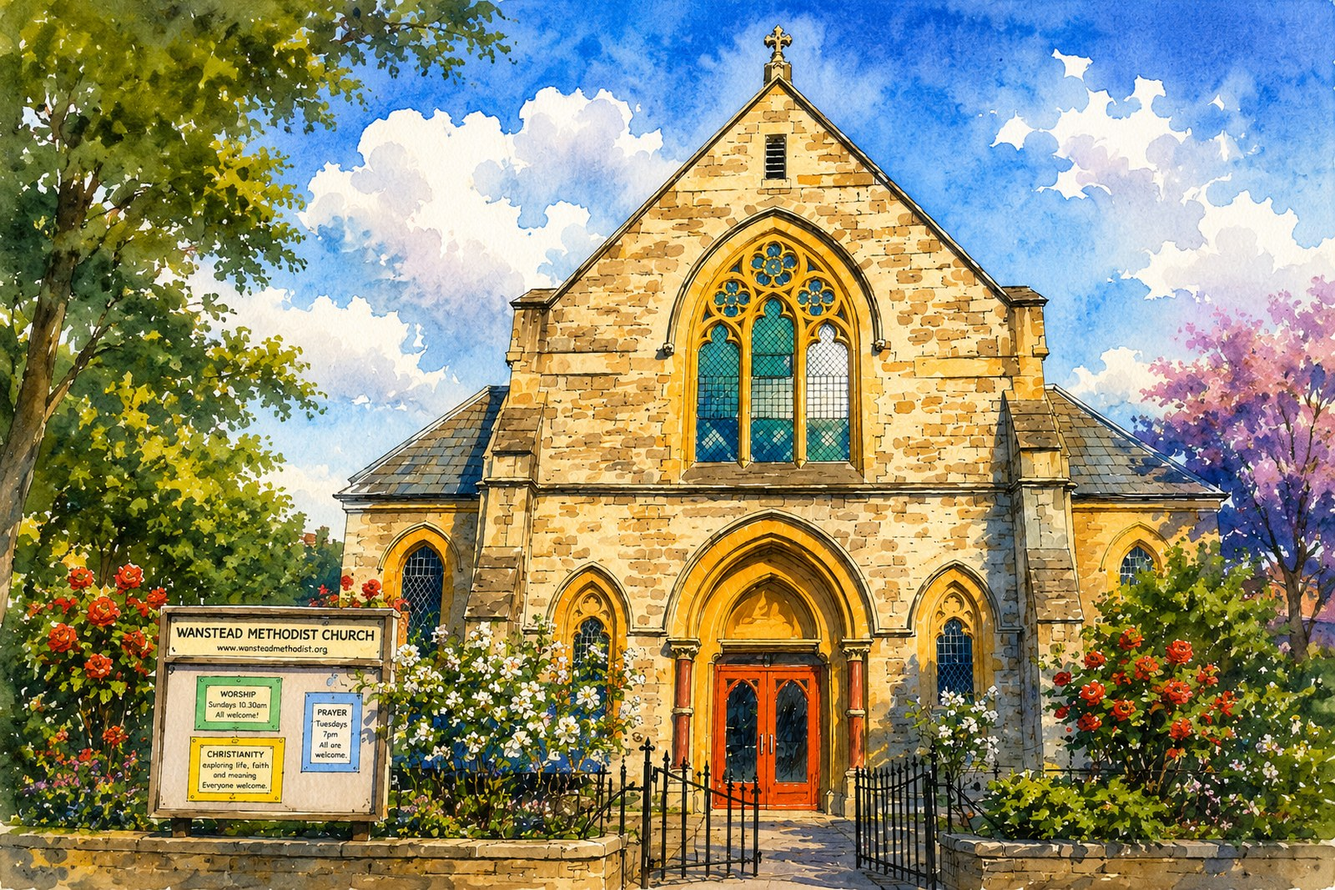
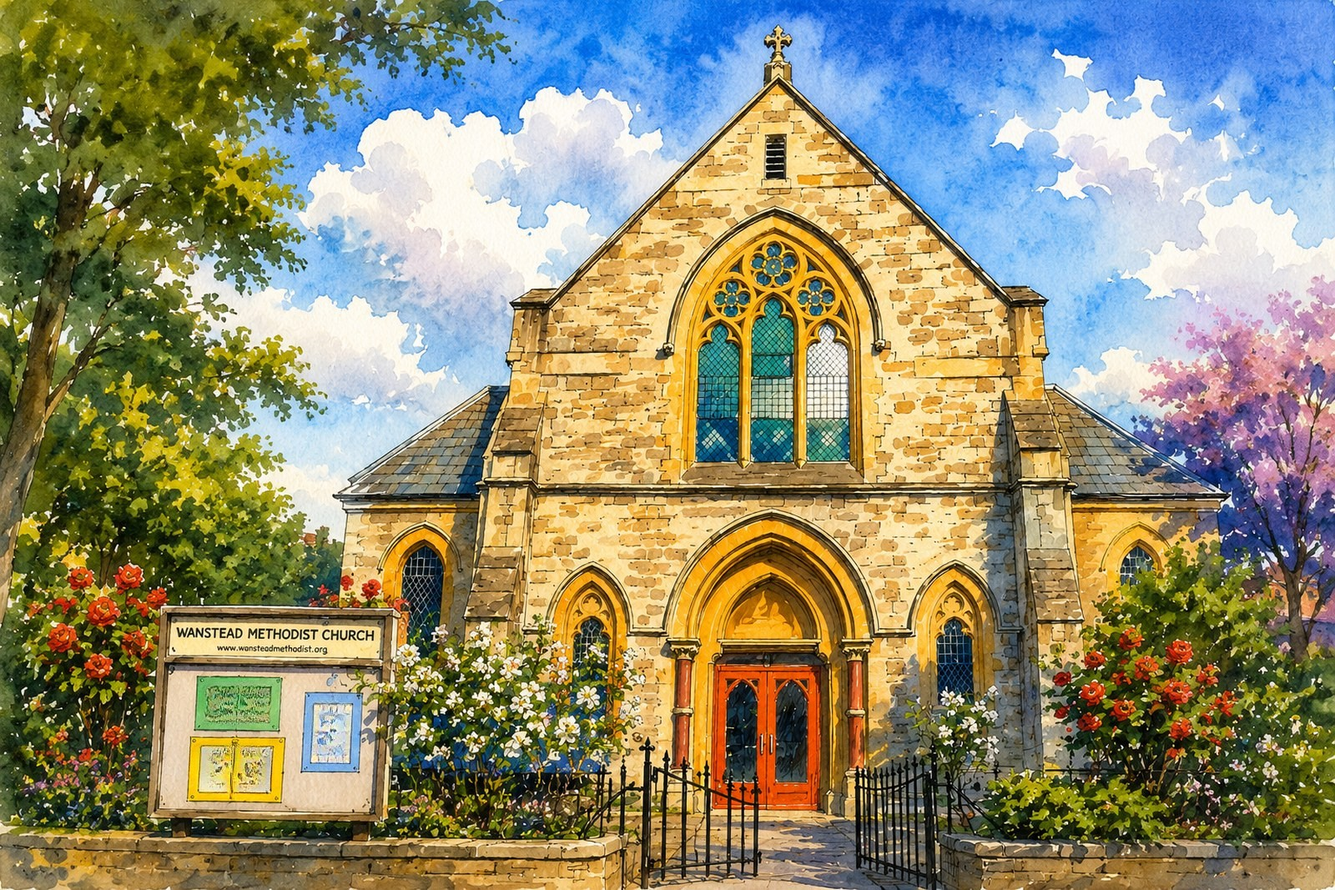
Spotlight Wanstead as a venue actively seeking hirers
Wanstead no longer holds Sunday services and is a Mission Strategy
2025-28 priority, so it gets a feature block above the hall hire form
rather than sitting as one of ten options in the dropdown. Its CTA
deep-links to the form with Wanstead preselected.

Also replaces the Wanstead image, whose noticeboard advertised
'Worship Sundays 10.30am' and contradicted the page, and fixes the
church select rendering read-only when arrived at via ?church= (it was
passed a value prop with no onChange, so the choice could not be
changed).

Changed region(s): [[0.125, 0.7423, 0.2812, 0.8969]]

diff --git a/components/hall-hire/WansteadSpotlight.tsx b/components/hall-hire/WansteadSpotlight.tsx
@@ -1,0 +1,92 @@
+import Image from "next/image";
+import { ExternalLink, Train, Utensils, Theater, DoorOpen, CircleParking } from "lucide-react";
+import { Button } from "@/components/ui/Button";
+
+/**
+ * Wanstead is a circuit priority in its own right: the building no longer
+ * holds Sunday services, and the Mission Strategy 2025-28 commits to
+ * developing it as a venue with a missional element. So it gets a spotlight
+ * above the general enquiry form rather than sitting as one option among ten
+ * in the dropdown.
+ */
+const FEATURES = [
+  { icon: Theater, label: "Main hall with a stage end" },
+  { icon: DoorOpen, label: "Smaller additional rooms" },
+  { icon: Utensils, label: "Kitchen and servery" },
+  { icon: CircleParking, label: "Parking, including accessible bays" },
+  { icon: Train, label: "5 minutes from Snaresbrook" },
+];
+
+export function WansteadSpotlight() {
+  return (
+    <section
+      aria-labelledby="wanstead-spotlight-heading"
+      className="sticker mb-12 overflow-hidden rounded-[20px] bg-white"
+      style={{ borderColor: "var(--orange-500)" }}
+    >
+      <div className="grid md:grid-cols-[1fr_1.15fr]">
+        <div className="relative min-h-[220px] md:min-h-full">
+          <Image
+            src="/images/wanstead.jpg"
+            alt="Wanstead Methodist Church on Hermon Hill"
+            fill
+            sizes="(min-width: 768px) 40vw, 100vw"
+            draggable={false}
+            priority
+            className="no-long-press object-cover"
+          />
+        </div>
+
+        <div className="p-6 md:p-8">
+          <span className="sticker mb-4 inline-flex -rotate-1 items-center rounded-full bg-orange-500 px-4 py-1.5 text-xs font-extrabold uppercase tracking-wide text-ink-900">
+            Now seeking hirers
+          </span>
+
+          <h2 id="wanstead-spotlight-heading" style={{ fontSize: "var(--text-h3)" }} className="mb-3">
+            Wanstead: a venue with room for more
+          </h2>
+
+          <div className="mb-5 flex flex-col gap-3 text-[var(--text-body)]">
+            <p>
+              Wanstead stopped holding Sunday services a few years ago, but the building never went quiet. It is now
+              a community hub and home to The Wanstead Curtain theatre company, and we are actively looking for more
+              regular hirers to fill the week.
+            </p>
+            <p>
+              It suits rehearsals, classes, workshops, committees and performance, and we would love to hear from
+              arts groups in particular.
+            </p>
+          </div>
+
+          <ul className="mb-5 grid gap-2 sm:grid-cols-2">
+            {FEATURES.map(({ icon: Icon, label }) => (
+              <li key={label} className="flex items-center gap-2 text-sm font-semibold text-[var(--text-heading)]">
+                <Icon size={15} className="shrink-0 text-forest-700" aria-hidden="true" />
+                {label}
+              </li>
+            ))}
+          </ul>
+
+          <p className="mb-5 rounded-[10px] bg-cream-100 px-4 py-3 text-sm text-[var(--text-body)]">
+            Please note this is a no-alcohol venue, and we are unable to take birthday party bookings.
+          </p>
+
+          <div className="flex flex-wrap items-center gap-3">
+            <Button href="/hall-hire?church=wanstead#enquiry" variant="primary">
+              Enquire about Wanstead
+            </Button>
+            <a
+              href="https://wansteadmethodists.org.uk/"
+              target="_blank"
+              rel="noreferrer"
+              className="inline-flex items-center gap-1.5 text-sm font-semibold text-forest-600 hover:text-forest-700"
+            >
+              wansteadmethodists.org.uk
+              <ExternalLink size={14} aria-hidden="true" />
+            </a>
+          </div>
+        </div>
+      </div>
+    </section>
+  );
+}

diff --git a/components/ui/Select.tsx b/components/ui/Select.tsx
@@ -9,13 +9,15 @@ export interface SelectProps {
   label?: string;
   options?: SelectOption[];
   value?: string;
+  /** Uncontrolled initial selection. Use instead of `value` when there is no onChange. */
+  defaultValue?: string;
   name?: string;
   onChange?: (e: React.ChangeEvent<HTMLSelectElement>) => void;
   className?: string;
   ariaLabel?: string;
 }
 
-export function Select({ label, options = [], value, name, onChange, className, ariaLabel }: SelectProps) {
+export function Select({ label, options = [], value, defaultValue, name, onChange, className, ariaLabel }: SelectProps) {
   const id = useId();
 
   return (
@@ -29,6 +31,7 @@ export function Select({ label, options = [], value, name, onChange, className, 
         id={id}
         name={name}
         value={value}
+        defaultValue={defaultValue}
         onChange={onChange}
         aria-label={!label ? ariaLabel : undefined}
         className={cn(

diff --git a/app/(site)/hall-hire/page.tsx b/app/(site)/hall-hire/page.tsx
@@ -1,5 +1,6 @@
 import type { Metadata } from "next";
 import { HallHireForm } from "@/components/hall-hire/HallHireForm";
+import { WansteadSpotlight } from "@/components/hall-hire/WansteadSpotlight";
 import { PageAccents } from "@/components/ui/PageAccents";
 import { getChurches } from "@/lib/content";
 
@@ -27,6 +28,12 @@ export default async function HallHirePage({
         Our churches offer warm, affordable spaces for local groups, classes, celebrations and community
         organisations. Tell us what you need and a member of our team will be in touch.
       </p>
+
+      <WansteadSpotlight />
+
+      <h2 id="enquiry" style={{ fontSize: "var(--text-h3)" }} className="mb-6 scroll-mt-28">
+        Make an enquiry
+      </h2>
       <HallHireForm churches={churches} defaultChurchSlug={params.church} />
     </div>
   );

diff --git a/components/hall-hire/HallHireForm.tsx b/components/hall-hire/HallHireForm.tsx
@@ -36,7 +36,7 @@ export function HallHireForm({ churches, defaultChurchSlug }: { churches: Church
         label="Which church would you like to hire?"
         name="churchSlug"
         options={churchOptions}
-        value={defaultChurchSlug}
+        defaultValue={defaultChurchSlug}
       />
 
       <div className="grid gap-6 sm:grid-cols-2">
